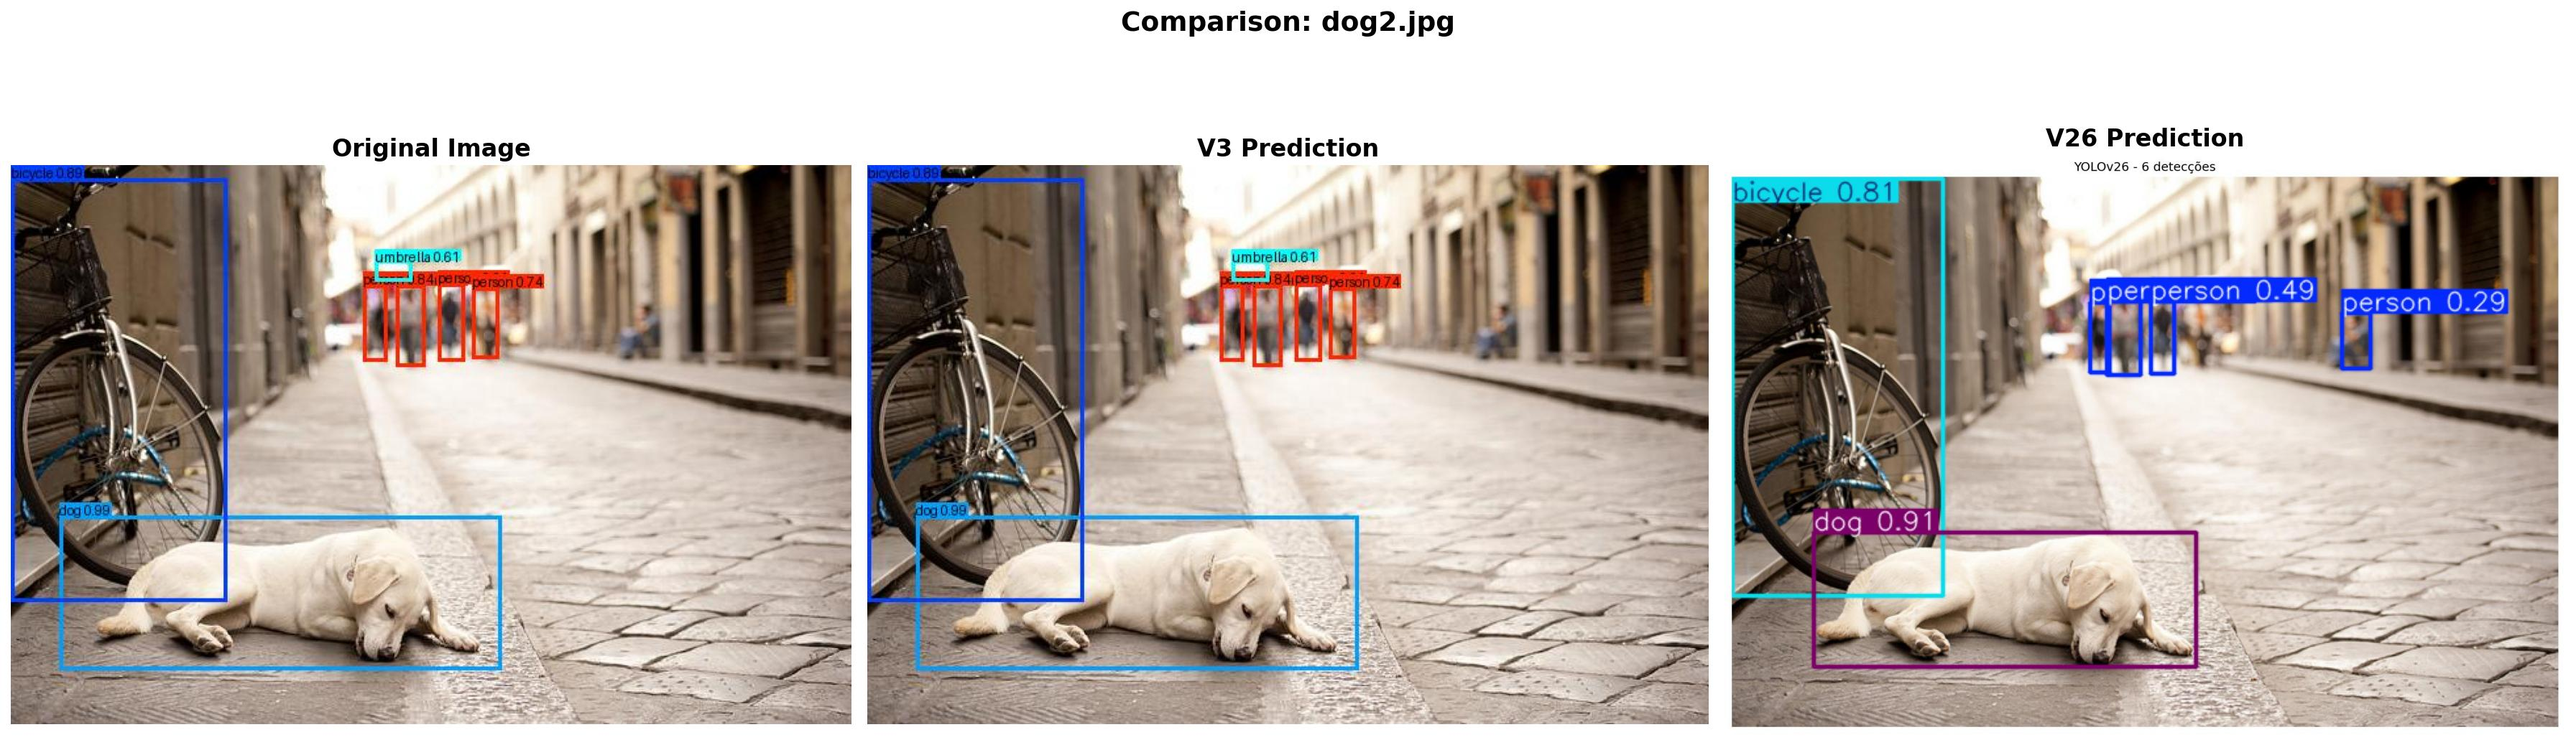
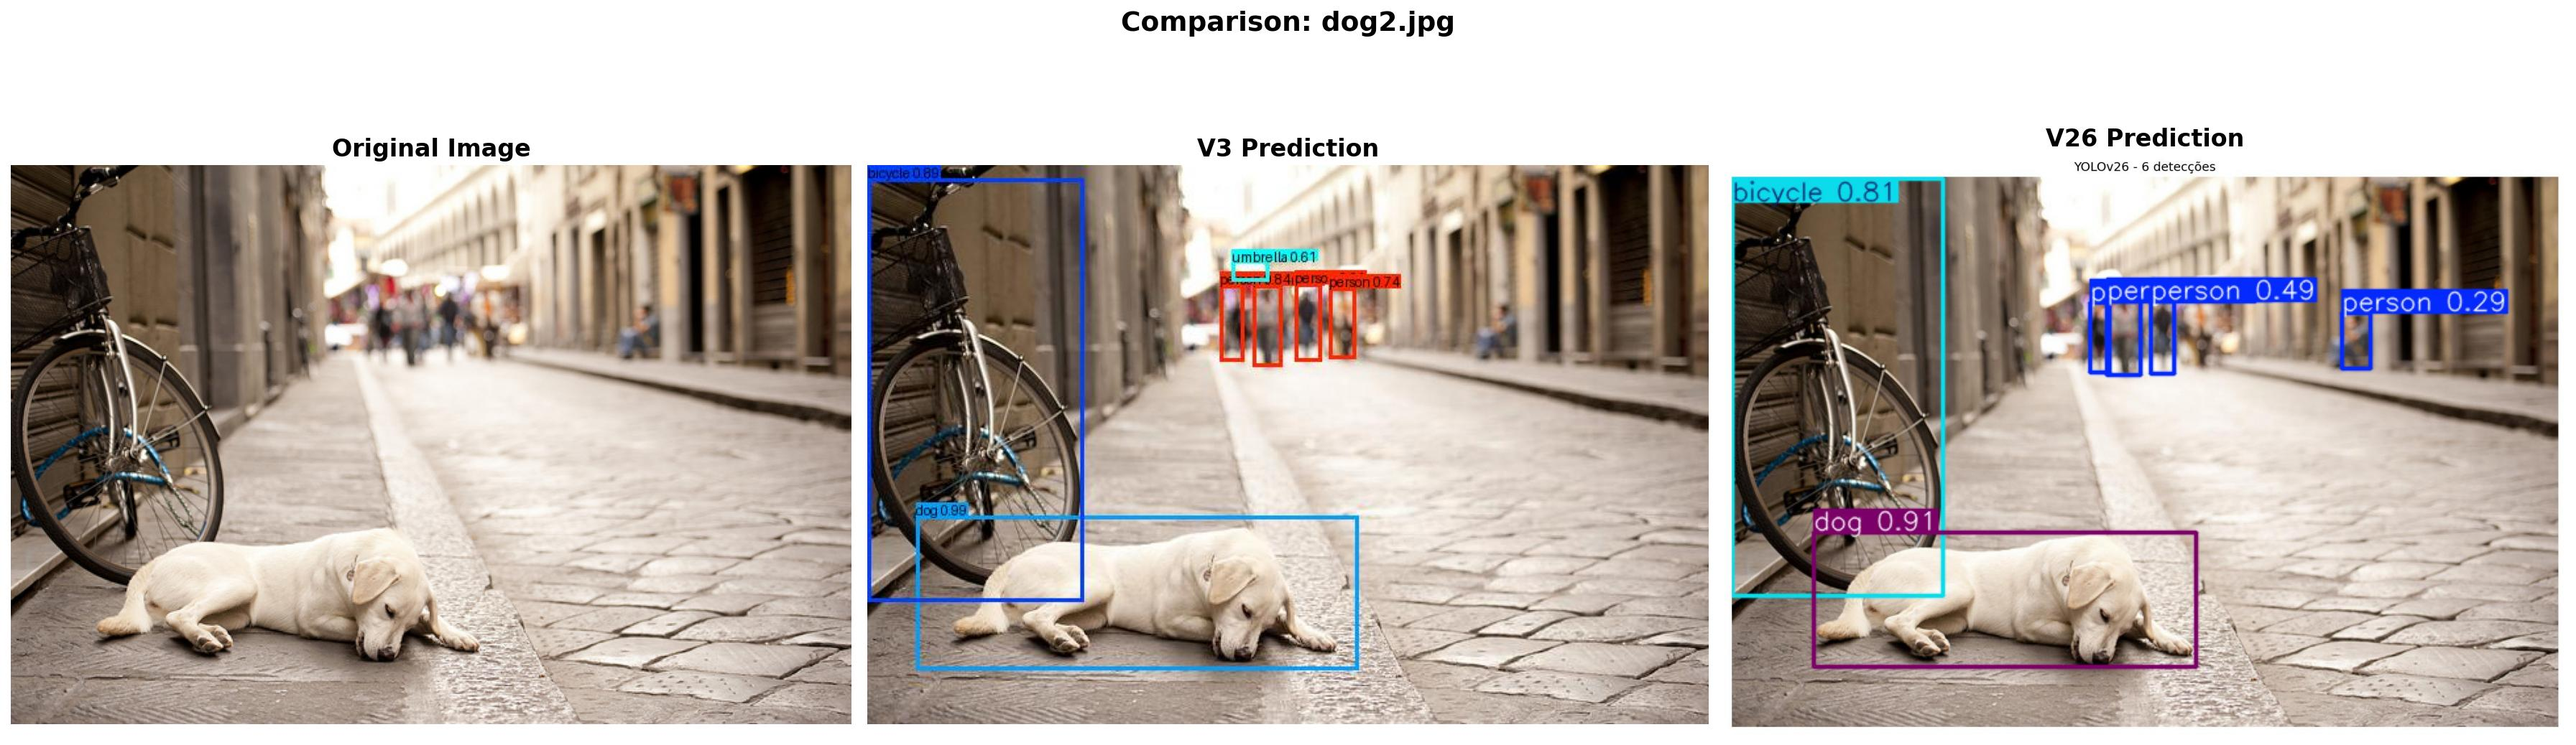
Add images

diff --git a/generate_comparison_plots.py b/generate_comparison_plots.py
@@ -63,6 +63,7 @@ def generate_all_comparisons(base_dir="exps", output_dir="comparisons"):
         output_dir: Directory to save comparison plots
     """
     v3_path = Path(base_dir) / "exp_v3"
+    image_path = "images/"
     v26_path = Path(base_dir) / "exp_v26"
     
     if not v3_path.exists() or not v26_path.exists():
@@ -86,11 +87,11 @@ def generate_all_comparisons(base_dir="exps", output_dir="comparisons"):
     print("="*60 + "\n")
     
     for img_file in image_files:
-        original_img = v3_path / img_file  # Original is same in both
         v3_pred = v3_path / img_file
         v26_pred = v26_path / img_file
+        original_img = image_path + img_file
         
-        if not original_img.exists() or not v3_pred.exists() or not v26_pred.exists():
+        if not v3_pred.exists() or not v26_pred.exists():
             print(f"⚠  Skipping {img_file} (files not found)")
             continue
         
